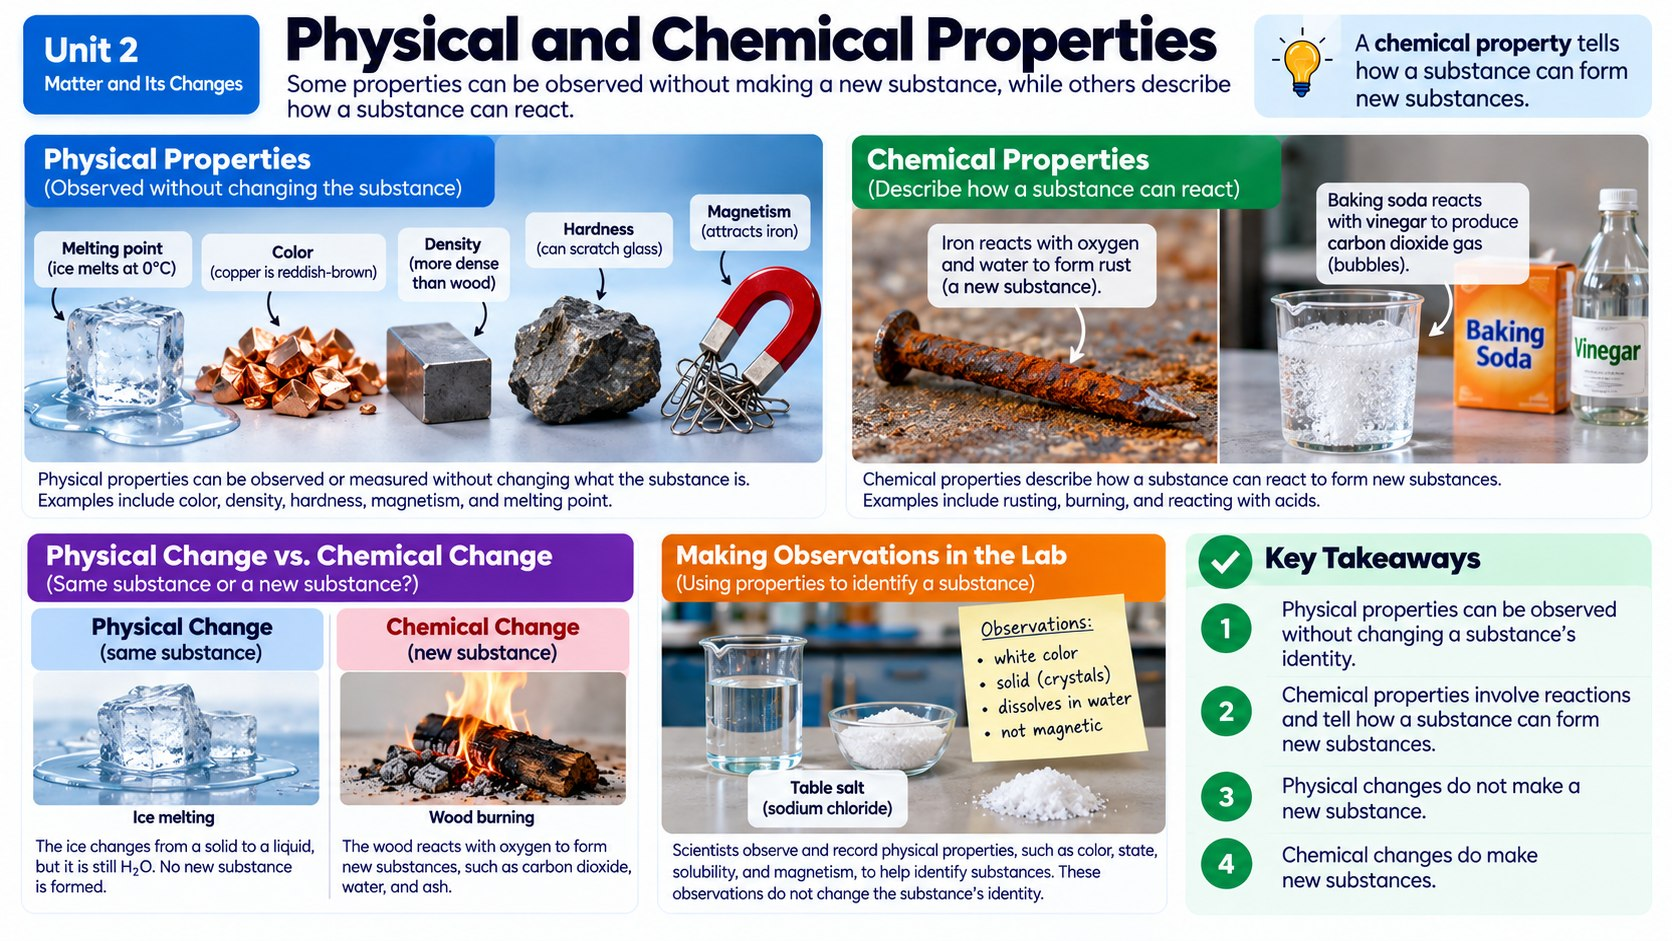
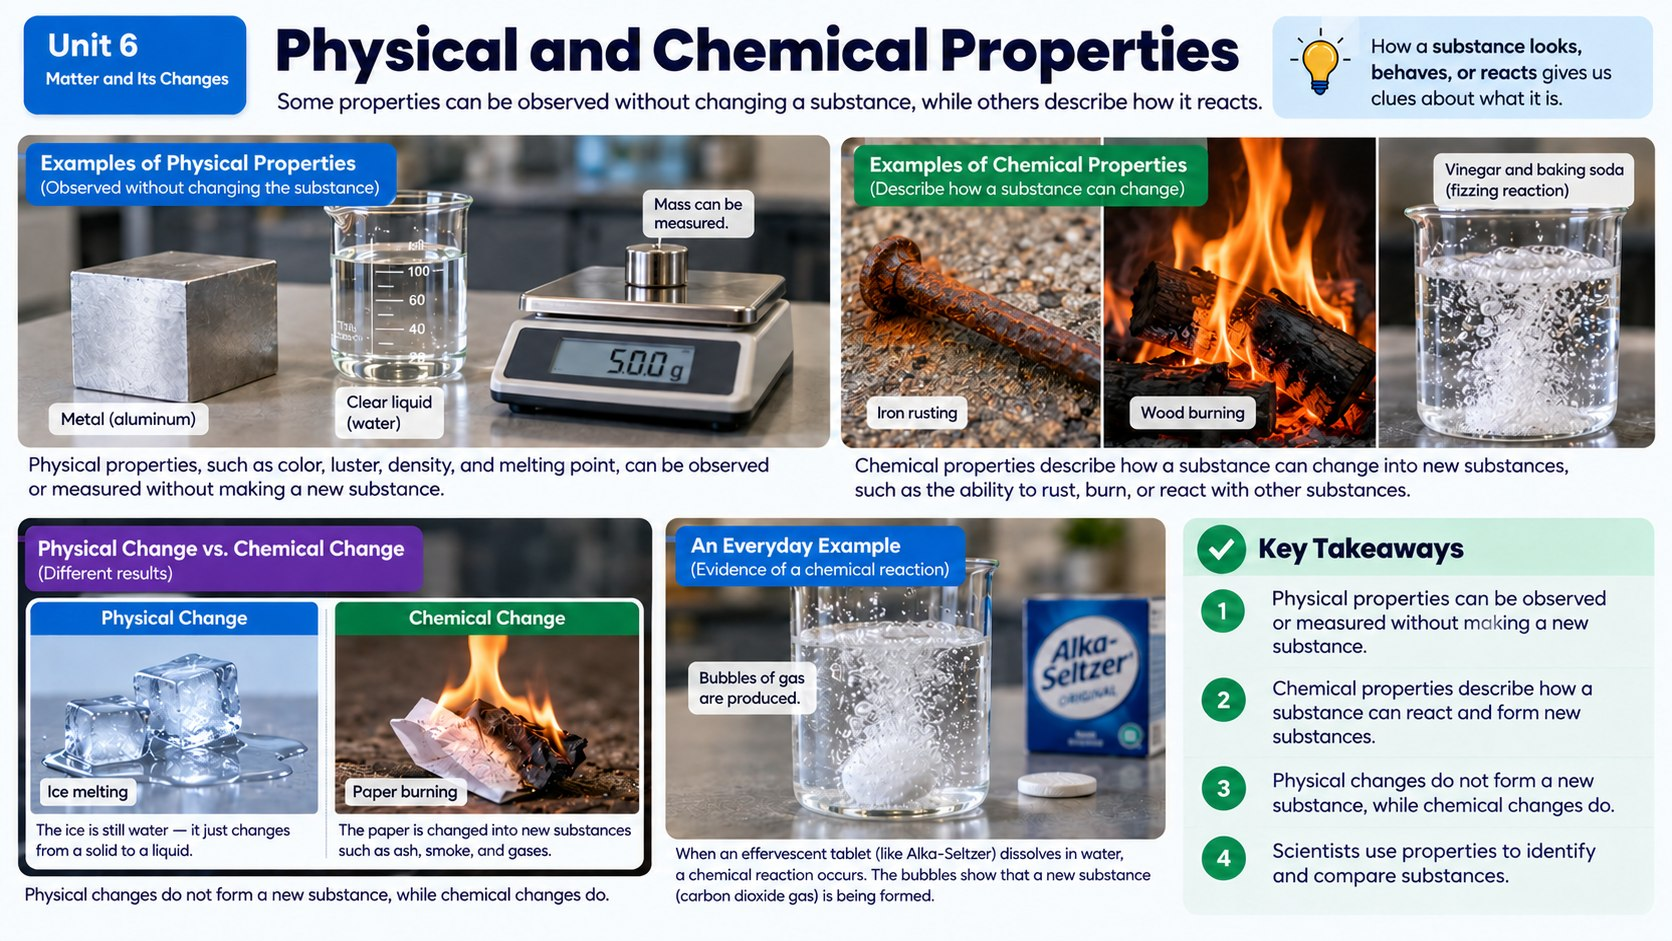
Reprint the last eight posters with the unit they actually belong to
Light Waves said Unit 2 on a Unit 4 chapter; the thermal three said
Unit 2 on Unit 5; the chemistry four said Unit 2 or Unit 3 on Unit 6.
On u6-t3 the header read "Unit 6, Chapter 20" with "Unit 3" printed in
the poster right under it. The regenerated set carries the right unit.

Two of them came back with reworked panels and a reworded subtitle, so
the alt text on u5-t1 and u6-t2 follows what the poster now says.

diff --git a/u6-t2.html b/u6-t2.html
@@ -67,7 +67,7 @@
   <figure class="chapter-figure">
     <a href="./assets/infographics/u6-t2.jpg" target="_blank" rel="noopener">
       <img src="./assets/infographics/u6-t2.jpg" width="1672" height="941" decoding="async"
-           alt="Chapter infographic, Physical and Chemical Properties. Some properties can be observed without making a new substance, while others describe how a substance can react. The poster works through the idea in labelled photo panels and ends with a list of key takeaways.">
+           alt="Chapter infographic, Physical and Chemical Properties. Some properties can be observed without changing a substance, while others describe how it reacts. The poster works through the idea in labelled photo panels and ends with a list of key takeaways.">
     </a>
     <figcaption><span class="zoom-hint"></span> the poster to open it full size.</figcaption>
   </figure>

diff --git a/u5-t1.html b/u5-t1.html
@@ -67,7 +67,7 @@
   <figure class="chapter-figure">
     <a href="./assets/infographics/u5-t1.jpg" target="_blank" rel="noopener">
       <img src="./assets/infographics/u5-t1.jpg" width="1672" height="941" decoding="async"
-           alt="Chapter infographic, Energy Transfer and Temperature. Thermal energy moves from warmer objects to cooler ones. The poster works through the idea in labelled photo panels and ends with a list of key takeaways.">
+           alt="Chapter infographic, Energy Transfer and Temperature. Thermal energy moves from warmer objects to cooler objects. The poster works through the idea in labelled photo panels and ends with a list of key takeaways.">
     </a>
     <figcaption><span class="zoom-hint"></span> the poster to open it full size.</figcaption>
   </figure>
